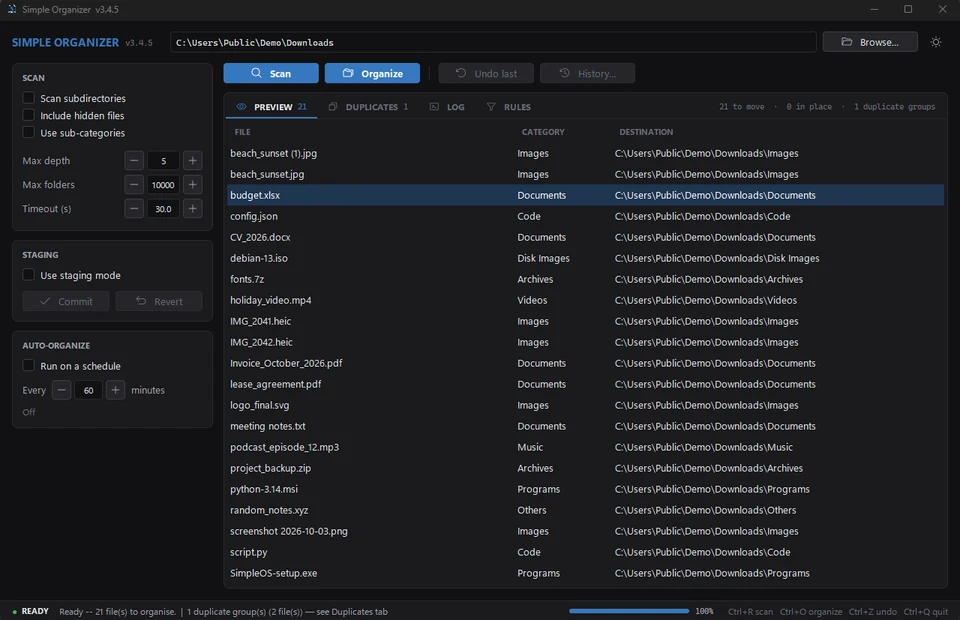
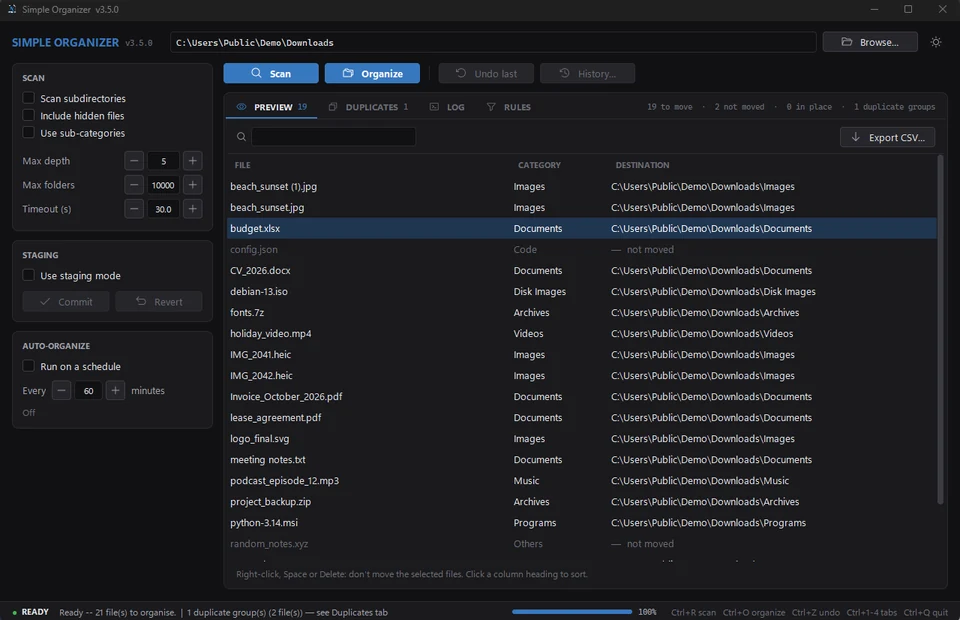
Simple Organizer 3.5.0

diff --git a/organizer.html b/organizer.html
@@ -38,13 +38,13 @@
     <img src="organizer-icon.png" width="48" height="48" alt="">
     <div>
       <h1>Simple Organizer</h1>
-      <p class="meta">Version 3.4.5 · released 12 October 2026 · Windows 10/11 and Linux · MIT License</p>
+      <p class="meta">Version 3.5.0 · released 13 October 2026 · Windows 10/11 and Linux · MIT License</p>
     </div>
   </div>
   <div class="actions">
-    <a class="btn org" href="download.html#organizer">Download for Windows <span class="size">(13.4 MB)</span></a>
+    <a class="btn org" href="download.html#organizer">Download for Windows <span class="size">(12.1 MB)</span></a>
     <a class="btn plain" href="organizer-guide.html">User guide</a>
-    <a class="btn plain" href="https://github.com/FreakySneaky787/Simple-Organizer/releases/tag/v3.4.5">Release notes</a>
+    <a class="btn plain" href="https://github.com/FreakySneaky787/Simple-Organizer/releases/tag/v3.5.0">Release notes</a>
     <a class="btn plain" href="https://github.com/FreakySneaky787/Simple-Organizer">Source code</a>
   </div>
 </div></div>
@@ -70,7 +70,7 @@
 
 <main id="main" class="content">
   <figure>
-    <a href="img/organizer.webp"><img class="shot" src="img/organizer-small.webp" width="960" height="620" alt="Simple Organizer in the dark theme: the Preview tab lists 21 files of a Downloads folder with their category and destination folder"></a>
+    <a href="img/organizer.webp"><img class="shot" src="img/organizer-small.webp" width="960" height="620" alt="Simple Organizer in the dark theme: the Preview tab with its search field lists the files of a Downloads folder with category and destination; two files are set to Don't move"></a>
     <figcaption>Simple Organizer with the Preview tab open.</figcaption>
   </figure>
 
@@ -99,9 +99,9 @@
   <div class="scroll"><table>
     <thead><tr><th>Feature</th><th>What it does</th></tr></thead>
     <tbody>
-      <tr><th>Preview</th><td>A scan only plans the moves. You see the result before anything happens.</td></tr>
-      <tr><th>Undo</th><td>Undo the last run, or any of the last 20 manual and 20 automatic runs, in any order.</td></tr>
-      <tr><th>Rules</th><td>Your own sorting rules by file extension, name pattern, size or age. For example: everything with “invoice” in the name goes to <code>Invoices</code>. <a href="organizer-guide.html#rules">How rules work</a></td></tr>
+      <tr><th>Preview</th><td>A scan only plans the moves. You see the result before anything happens, can search and sort it, keep single files where they are with <strong>Don't move</strong>, and export it as a CSV file.</td></tr>
+      <tr><th>Undo</th><td>Undo the last run, or any of the last 20 manual and 20 automatic runs, in any order. The history shows which folder each run belongs to.</td></tr>
+      <tr><th>Rules</th><td>Your own sorting rules by file extension, name pattern, size or age, also combined. For example: everything with “invoice” in the name goes to <code>Invoices</code>, or PDFs older than a year go to <code>Archive</code>. <a href="organizer-guide.html#rules">How rules work</a></td></tr>
       <tr><th>Staging mode</th><td>Collect moves first, then commit or revert them together.</td></tr>
       <tr><th>Auto-organize</th><td>Sorts the folder on a schedule while the program is open.</td></tr>
       <tr><th>Duplicate finder</th><td>Finds files that are exactly the same. Copies go to the Recycle Bin or Trash only if you confirm.</td></tr>
@@ -124,9 +124,12 @@
   <div class="scroll"><table>
     <thead><tr><th>Keys</th><th>Action</th></tr></thead>
     <tbody>
-      <tr><td><kbd>Ctrl</kbd> + <kbd>R</kbd></td><td>Scan</td></tr>
+      <tr><td><kbd>Ctrl</kbd> + <kbd>R</kbd> or <kbd>F5</kbd></td><td>Scan</td></tr>
       <tr><td><kbd>Ctrl</kbd> + <kbd>O</kbd></td><td>Organize</td></tr>
       <tr><td><kbd>Ctrl</kbd> + <kbd>Z</kbd></td><td>Undo last run</td></tr>
+      <tr><td><kbd>Ctrl</kbd> + <kbd>F</kbd></td><td>Search the Preview</td></tr>
+      <tr><td><kbd>Ctrl</kbd> + <kbd>1</kbd> … <kbd>4</kbd></td><td>Preview, Duplicates, Log, Rules</td></tr>
+      <tr><td><kbd>Space</kbd> or <kbd>Delete</kbd></td><td>Don't move the selected files (Preview)</td></tr>
       <tr><td><kbd>Ctrl</kbd> + <kbd>Q</kbd></td><td>Quit (waits for a running task to finish)</td></tr>
     </tbody>
   </table></div>
@@ -134,7 +137,7 @@
   <h2 id="install">Installation</h2>
   <h3>Windows 10 and 11</h3>
   <ol>
-    <li><a href="download.html#organizer">Download</a> <code>simple_organizer_windows_v3.4.5.zip</code>.</li>
+    <li><a href="download.html#organizer">Download</a> <code>simple_organizer_windows_v3.5.0.zip</code>.</li>
     <li>Extract the ZIP file.</li>
     <li>Start <code>simple_organizer.exe</code>.</li>
   </ol>
@@ -166,6 +169,7 @@ python3 main.py</pre>
   <div class="scroll"><table>
     <thead><tr><th>Version</th><th>Date</th><th>Main changes</th></tr></thead>
     <tbody>
+      <tr><th>3.5.0</th><td class="num">13 Oct 2026</td><td>Don't move single files; search, sort and CSV export in the Preview; rules with several conditions; history shows the folder of every run; Auto-organize can be paused after an undo and never switches to another folder; starts about twice as fast; tests run on GitHub Actions.</td></tr>
       <tr><th>3.4.5</th><td class="num">12 Oct 2026</td><td>13 fixes from the fourth review; a rules file in the wrong text encoding no longer stops the start; read-only files move between drives without leftover copies; Trash keeps the last copy of a duplicate; LibreOffice lock files and running Firefox downloads are left alone; opens the real Downloads folder on first start.</td></tr>
       <tr><th>3.4.4</th><td class="num">9 Oct 2026</td><td>23 fixes from the third review; new Programs and Disk Images categories; no leftover copies when moving between drives; Desktop shortcuts are never moved; only one instance can run; errors are saved to <code>error.log</code>.</td></tr>
       <tr><th>3.4.3</th><td class="num">8 Oct 2026</td><td>15 fixes; OneDrive online-only files skipped in the duplicate check; scheduled runs continue after a restart; log capped at 5,000 lines; window size and position remembered better.</td></tr>
@@ -177,8 +181,6 @@ python3 main.py</pre>
   <h2 id="planned">Planned</h2>
   <p>Things I'd like to add. There are no dates for these yet. See also the <a href="roadmap.html#organizer">roadmap</a>.</p>
   <ul>
-    <li>Search and filter in the Preview tab</li>
-    <li>Export scan results as CSV or HTML</li>
     <li>Watch mode that sorts new files as soon as they appear</li>
     <li>Flatpak or AppImage package for Linux</li>
     <li>Code-signed Windows version, so SmartScreen doesn't warn anymore</li>

diff --git a/organizer-guide.html b/organizer-guide.html
@@ -35,7 +35,7 @@
 
 <div class="page-head"><div class="wrap">
   <h1>Simple Organizer user guide</h1>
-  <p class="meta">For version 3.4.5 · <a href="organizer.html">Back to Simple Organizer</a></p>
+  <p class="meta">For version 3.5.0 · <a href="organizer.html">Back to Simple Organizer</a></p>
 </div></div>
 
 <div class="wrap docs">
@@ -58,13 +58,13 @@
 <main id="main" class="content">
   <h2 id="first-run">Your first run</h2>
   <ol>
-    <li>Start Simple Organizer. The first time, it picks your <code>Downloads</code> folder. After that it remembers the last folder you used.</li>
+    <li>Start Simple Organizer. The first time, it picks your <code>Downloads</code> folder. After that it remembers the last folder you used, even while its drive is unplugged.</li>
     <li>To choose another folder, click <strong>Browse…</strong> in the top bar.</li>
     <li>Click <strong>Scan</strong> (<kbd>Ctrl</kbd> + <kbd>R</kbd>). Nothing is moved yet. The <strong>Preview</strong> tab lists every file that would be moved and where it would go.</li>
-    <li>Look through the list. Right-click a row to open the source or target folder, or to copy a path.</li>
+    <li>Look through the list. Use the search field (<kbd>Ctrl</kbd> + <kbd>F</kbd>) to find files and click a column heading to sort. To keep a file where it is, select it and press <kbd>Space</kbd> or <kbd>Delete</kbd> (or right-click → <strong>Don't move</strong>). <strong>Export CSV…</strong> saves the list.</li>
     <li>Click <strong>Organize</strong> (<kbd>Ctrl</kbd> + <kbd>O</kbd>). You'll see how many files will be moved and how big they are. Confirm, and the files are moved into category folders inside the folder you scanned.</li>
   </ol>
-  <p>To reverse it, click <strong>Undo last</strong> (<kbd>Ctrl</kbd> + <kbd>Z</kbd>).</p>
+  <p>To reverse it, click <strong>Undo last</strong> (<kbd>Ctrl</kbd> + <kbd>Z</kbd>). The question tells you which run and folder it will restore. If you change a scan option or a rule after scanning, the list is cleared — just scan again.</p>
 
   <h2 id="window">The window</h2>
   <div class="scroll"><table>
@@ -111,7 +111,7 @@
   <h2 id="rules">Rules</h2>
   <p>Rules send files to a folder you choose, before the normal sorting by file type. They're checked from top to bottom, and the first rule that matches wins.</p>
   <h3>Create a rule</h3>
-  <p>Open the <strong>Rules</strong> tab and click <strong>Add rule</strong>. Every rule has a name, a condition, a value, a target folder, and can be switched on or off.</p>
+  <p>Open the <strong>Rules</strong> tab and click <strong>Add rule</strong>. Every rule has a name, one or more conditions, a target folder, and can be switched on or off. With <strong>Add condition</strong> a rule gets more conditions; it then only matches files that meet <em>all</em> of them.</p>
   <div class="scroll"><table>
     <thead><tr><th>Condition</th><th>Matches</th><th>Example value</th></tr></thead>
     <tbody>
@@ -131,6 +131,7 @@
       <tr><td>Put large files aside</td><td><code>min_size_mb</code></td><td><code>500</code></td><td><code>Large files</code></td></tr>
       <tr><td>Archive old files</td><td><code>older_than_days</code></td><td><code>365</code></td><td><code>Archive</code></td></tr>
       <tr><td>Collect log files</td><td><code>extension</code></td><td><code>log</code></td><td><code>Logs</code></td></tr>
+      <tr><td>Archive old PDFs only</td><td><code>extension</code> + <code>older_than_days</code></td><td><code>pdf</code> + <code>365</code></td><td><code>Archive</code></td></tr>
     </tbody>
   </table></div>
   <h3>Target folder</h3>

diff --git a/download.html b/download.html
@@ -4,7 +4,7 @@
 <meta charset="utf-8">
 <meta name="viewport" content="width=device-width, initial-scale=1">
 <title>Download – Simple-Project</title>
-<meta name="description" content="Download Simple OS 1.0.3 and Simple Organizer 3.4.5.">
+<meta name="description" content="Download Simple OS 1.0.3 and Simple Organizer 3.5.0.">
 <link rel="stylesheet" href="style.css">
 <link rel="icon" href="favicon.svg" type="image/svg+xml">
 <meta name="theme-color" content="#fffdf9">
@@ -12,7 +12,7 @@
 <meta property="og:url" content="https://freakysneaky787.github.io/download.html">
 <link rel="canonical" href="https://freakysneaky787.github.io/download.html">
 <meta property="og:title" content="Download – Simple-Project">
-<meta property="og:description" content="Download Simple OS 1.0.3 and Simple Organizer 3.4.5.">
+<meta property="og:description" content="Download Simple OS 1.0.3 and Simple Organizer 3.5.0.">
 <meta property="og:image" content="https://raw.githubusercontent.com/FreakySneaky787/Simple-OS/main/docs/sos-banner.png">
 <script src="script.js" defer></script>
 </head>
@@ -78,18 +78,18 @@
   <pre>sha256sum -c Simple-OS.iso.sha256</pre>
   <p>If the values don't match, download the ISO again.</p>
 
-  <h2 id="organizer">Simple Organizer 3.4.5</h2>
-  <p class="sub">Released 12 October 2026 · Windows 10/11 and Linux · <a href="organizer.html">About Simple Organizer</a></p>
+  <h2 id="organizer">Simple Organizer 3.5.0</h2>
+  <p class="sub">Released 13 October 2026 · Windows 10/11 and Linux · <a href="organizer.html">About Simple Organizer</a></p>
 
   <div class="dl-card">
     <div class="dl-main">
       <img src="organizer-icon.png" width="42" height="42" alt="">
-      <div class="file"><strong>simple_organizer_windows_v3.4.5.zip</strong><span>Windows 10 and 11 · 13.4 MB · no installation needed</span></div>
-      <a class="btn org" href="https://github.com/FreakySneaky787/Simple-Organizer/releases/download/v3.4.5/simple_organizer_windows_v3.4.5.zip">Download for Windows</a>
+      <div class="file"><strong>simple_organizer_windows_v3.5.0.zip</strong><span>Windows 10 and 11 · 12.1 MB · no installation needed</span></div>
+      <a class="btn org" href="https://github.com/FreakySneaky787/Simple-Organizer/releases/download/v3.5.0/simple_organizer_windows_v3.5.0.zip">Download for Windows</a>
     </div>
     <div class="dl-hash">
       <span class="k">Linux</span>
-      <span>Runs from the source code with Python 3.11+ and Tkinter. <a href="https://github.com/FreakySneaky787/Simple-Organizer/archive/refs/tags/v3.4.5.zip">Source code (zip)</a> · <a href="organizer.html#install">Instructions</a></span>
+      <span>Runs from the source code with Python 3.11+ and Tkinter. <a href="https://github.com/FreakySneaky787/Simple-Organizer/archive/refs/tags/v3.5.0.zip">Source code (zip)</a> · <a href="organizer.html#install">Instructions</a></span>
     </div>
   </div>
 

diff --git a/roadmap.html b/roadmap.html
@@ -36,7 +36,7 @@
 <div class="page-head"><div class="wrap">
   <h1>Roadmap</h1>
   <p class="lead">What I'm working on next. This is a plan, not a promise: dates and order can change, mostly depending on feedback.</p>
-  <p class="meta">Last updated on 12 October 2026.</p>
+  <p class="meta">Last updated on 13 October 2026.</p>
 </div></div>
 
 <div class="wrap docs">
@@ -133,15 +133,13 @@
   <p><a href="https://github.com/FreakySneaky787/Simple-OS/issues">All Simple OS issues on GitHub →</a></p>
 
   <h2 id="organizer">Simple Organizer</h2>
-  <p>The current version is <a href="https://github.com/FreakySneaky787/Simple-Organizer/releases/tag/v3.4.5">3.4.5</a> (12 October 2026), with 13 fixes from the fourth code review. All reported issues are fixed.</p>
+  <p>The current version is <a href="https://github.com/FreakySneaky787/Simple-Organizer/releases/tag/v3.5.0">3.5.0</a> (13 October 2026). It adds “Don't move”, search, sorting and CSV export in the preview and rules with several conditions, and fixes all reported issues. The tests now run automatically on GitHub.</p>
   <p>No dates yet. These are the next things on the list:</p>
   <ul>
-    <li>Search and filter in the Preview tab</li>
-    <li>Export scan results as CSV or HTML</li>
     <li>Watch mode that sorts new files as soon as they appear</li>
     <li>Flatpak or AppImage package for Linux</li>
     <li>Code-signed Windows version, so SmartScreen doesn't warn anymore</li>
-    <li>Automated tests</li>
+    <li>Run the automated tests on Linux too</li>
   </ul>
 </main>
 </div>

diff --git a/index.html b/index.html
@@ -52,7 +52,7 @@
     <div class="tile">
       <img src="organizer-icon.png" width="46" height="46" alt="">
       <div>
-        <h2><a href="organizer.html">Simple Organizer</a><span class="ver">3.4.5</span></h2>
+        <h2><a href="organizer.html">Simple Organizer</a><span class="ver">3.5.0</span></h2>
         <p>Sorts a messy folder like Downloads into sub-folders. Only moves files, never deletes them, and every run can be undone.</p>
         <div class="links"><a class="btn org" href="download.html#organizer">Download</a><a href="organizer.html">Learn more</a></div>
       </div>
@@ -64,6 +64,14 @@
 <main id="main">
   <h2>News</h2>
   <div class="news">
+    <article>
+      <time class="date" datetime="2026-10-13"><span>Oct</span><b>13</b><span>2026</span></time>
+      <div>
+        <h3><span class="label org">Organizer</span>Simple Organizer 3.5.0</h3>
+        <p>The first feature release since the reviews. You can keep single files where they are with “Don't move”, search, sort and export the preview as a CSV file, and give a rule several conditions, like “PDF and older than a year”. The history now shows which folder each run belongs to, and the program starts about twice as fast.</p>
+        <a href="https://github.com/FreakySneaky787/Simple-Organizer/releases/tag/v3.5.0">Release notes</a>
+      </div>
+    </article>
     <article>
       <time class="date" datetime="2026-10-12"><span>Oct</span><b>12</b><span>2026</span></time>
       <div>

diff --git a/about.html b/about.html
@@ -48,7 +48,7 @@
   <p><strong>Simple OS</strong> is built with Debian's live-build tools. Before a release, the image is started and installed in virtual machines in three modes: BIOS, UEFI and UEFI with Secure Boot. Things that can only be checked on real hardware are tracked as “Verify …” issues on GitHub.</p>
   <p>Updates are published to a signed package repository. That's how installed systems get new versions without reinstalling.</p>
   <p>Work is normally pushed to GitHub together with a release, and every release has a tag (for example <code>v1.0.3</code>) that matches exactly what was published. More about this under <a href="contribute.html#how">How the project works</a>.</p>
-  <p><strong>Simple Organizer</strong> goes through regular code reviews. Version 3.4.5, for example, fixes 13 issues found in the fourth review.</p>
+  <p><strong>Simple Organizer</strong> goes through regular code reviews. Version 3.4.5, for example, fixed 13 issues found in the fourth review, and since 3.5.0 every release is checked by automated tests.</p>
 
   <h2>Contact</h2>
   <p>The best way to reach me is GitHub. For bugs and ideas, please open an issue in the right project, so nothing gets lost.</p>

diff --git a/help.html b/help.html
@@ -159,7 +159,7 @@
   <ol>
     <li>Open an issue on <a href="https://github.com/FreakySneaky787/Simple-Organizer/issues">github.com/FreakySneaky787/Simple-Organizer/issues</a>.</li>
     <li>Write what you did and what happened, and which version you use.</li>
-    <li>Attach <code>error.log</code> if there is one. On Windows it's in <code>%APPDATA%\simple_organizer\</code>, on Linux in <code>~/.config/simple_organizer/</code>.</li>
+    <li>Attach <code>error.log</code> if there is one. On Windows it's in <code>%APPDATA%\simple_organizer\</code>, on Linux in <code>~/.local/share/simple_organizer/</code>.</li>
   </ol>
 </main>
 </div>
